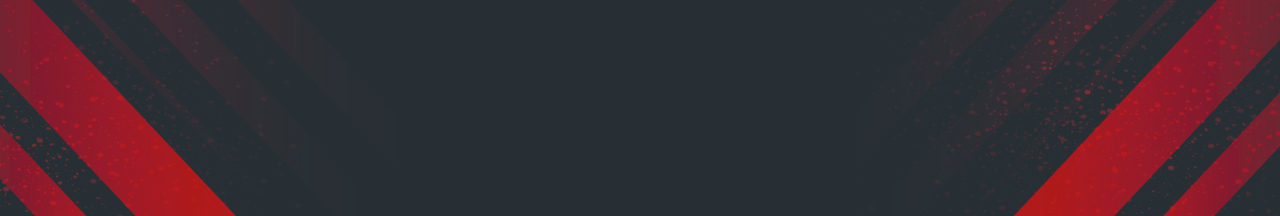
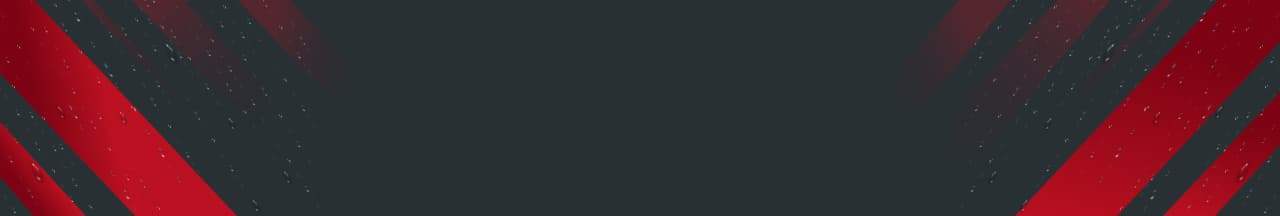
new bgcolor

diff --git a/src/sass/layout/_header-library.scss b/src/sass/layout/_header-library.scss
@@ -22,8 +22,8 @@
   @media screen and (max-width: #{$tablet - 1}) {
     background-image: linear-gradient(
         to right,
-        rgba(0, 0, 0, 0.56),
-        rgba(0, 0, 0, 0.56)
+        rgba(0, 0, 0, 0.3),
+        rgba(0, 0, 0, 0.3)
       ),
       url('/src/images/background/Rectangle-1x-mobile.jpg');
 
@@ -32,8 +32,8 @@
       screen and (min-resolution: 2dppx) and (max-width: #{$tablet - 1}) {
       background-image: linear-gradient(
           to right,
-          rgba(0, 0, 0, 0.56),
-          rgba(0, 0, 0, 0.56)
+          rgba(0, 0, 0, 0.3),
+          rgba(0, 0, 0, 0.3)
         ),
         url('/src/images/background/Rectangle-2x-mobile.jpg');
     }
@@ -42,8 +42,8 @@
   @media screen and (min-width: $tablet) {
     background-image: linear-gradient(
         to right,
-        rgba(0, 0, 0, 0.56),
-        rgba(0, 0, 0, 0.56)
+        rgba(0, 0, 0, 0.3),
+        rgba(0, 0, 0, 0.3)
       ),
       url('/src/images/background/Rectangle-1x-tablet.jpg');
 
@@ -52,8 +52,8 @@
       screen and (min-resolution: 2dppx) and (min-width: $tablet) {
       background-image: linear-gradient(
           to right,
-          rgba(0, 0, 0, 0.56),
-          rgba(0, 0, 0, 0.56)
+          rgba(0, 0, 0, 0.3),
+          rgba(0, 0, 0, 0.3)
         ),
         url('/src/images/background/Rectangle-2x-tablet.jpg');
     }
@@ -61,8 +61,8 @@
   @media screen and (min-width: $desktop) {
     background-image: linear-gradient(
         to right,
-        rgba(0, 0, 0, 0.56),
-        rgba(0, 0, 0, 0.56)
+        rgba(0, 0, 0, 0.3),
+        rgba(0, 0, 0, 0.3)
       ),
       url('/src/images/background/Rectangle-1x-desktop.jpg');
 
@@ -71,8 +71,8 @@
       screen and (min-resolution: 2dppx) and (min-width: $desktop) {
       background-image: linear-gradient(
           to right,
-          rgba(0, 0, 0, 0.56),
-          rgba(0, 0, 0, 0.56)
+          rgba(0, 0, 0, 0.3),
+          rgba(0, 0, 0, 0.3)
         ),
         url('/src/images/background/Rectangle-2x-desktop.jpg');
     }

diff --git a/src/sass/layout/_header-filmoteka.scss b/src/sass/layout/_header-filmoteka.scss
@@ -18,8 +18,8 @@
   @media screen and (max-width: #{$tablet - 1}) {
     background-image: linear-gradient(
         to right,
-        rgba(0, 0, 0, 0.56),
-        rgba(0, 0, 0, 0.56)
+        rgba(0, 0, 0, 0.3),
+        rgba(0, 0, 0, 0.3)
       ),
       url('../images/background/abstract-1x-mobile.jpg');
 
@@ -28,8 +28,8 @@
       screen and (min-resolution: 2dppx) and (max-width: #{$tablet - 1}) {
       background-image: linear-gradient(
           to right,
-          rgba(0, 0, 0, 0.56),
-          rgba(0, 0, 0, 0.56)
+          rgba(0, 0, 0, 0.3),
+          rgba(0, 0, 0, 0.3)
         ),
         url('../images/background/abstract-2x-mobile.jpg');
     }
@@ -37,8 +37,8 @@
   @media screen and (min-width: $tablet) {
     background-image: linear-gradient(
         to right,
-        rgba(0, 0, 0, 0.56),
-        rgba(0, 0, 0, 0.56)
+        rgba(0, 0, 0, 0.3),
+        rgba(0, 0, 0, 0.3)
       ),
       url('../images/background/abstract-1x-tablet.jpg');
 
@@ -47,8 +47,8 @@
       screen and (min-resolution: 2dppx) and (min-width: $tablet) {
       background-image: linear-gradient(
           to right,
-          rgba(0, 0, 0, 0.56),
-          rgba(0, 0, 0, 0.56)
+          rgba(0, 0, 0, 0.3),
+          rgba(0, 0, 0, 0.3)
         ),
         url('../images/background/abstract-2x-tablet.jpg');
     }
@@ -56,8 +56,8 @@
   @media screen and (min-width: $desktop) {
     background-image: linear-gradient(
         to right,
-        rgba(0, 0, 0, 0.56),
-        rgba(0, 0, 0, 0.56)
+        rgba(0, 0, 0, 0.3),
+        rgba(0, 0, 0, 0.3)
       ),
       url('/src/images/background/abstract-1x-Desktop.jpg');
 
@@ -66,8 +66,8 @@
       screen and (min-resolution: 2dppx) and (min-width: $desktop) {
       background-image: linear-gradient(
           to right,
-          rgba(0, 0, 0, 0.56),
-          rgba(0, 0, 0, 0.56)
+          rgba(0, 0, 0, 0.3),
+          rgba(0, 0, 0, 0.3)
         ),
         url('/src/images/background/abstract-2x-Desktop.jpg');
     }
